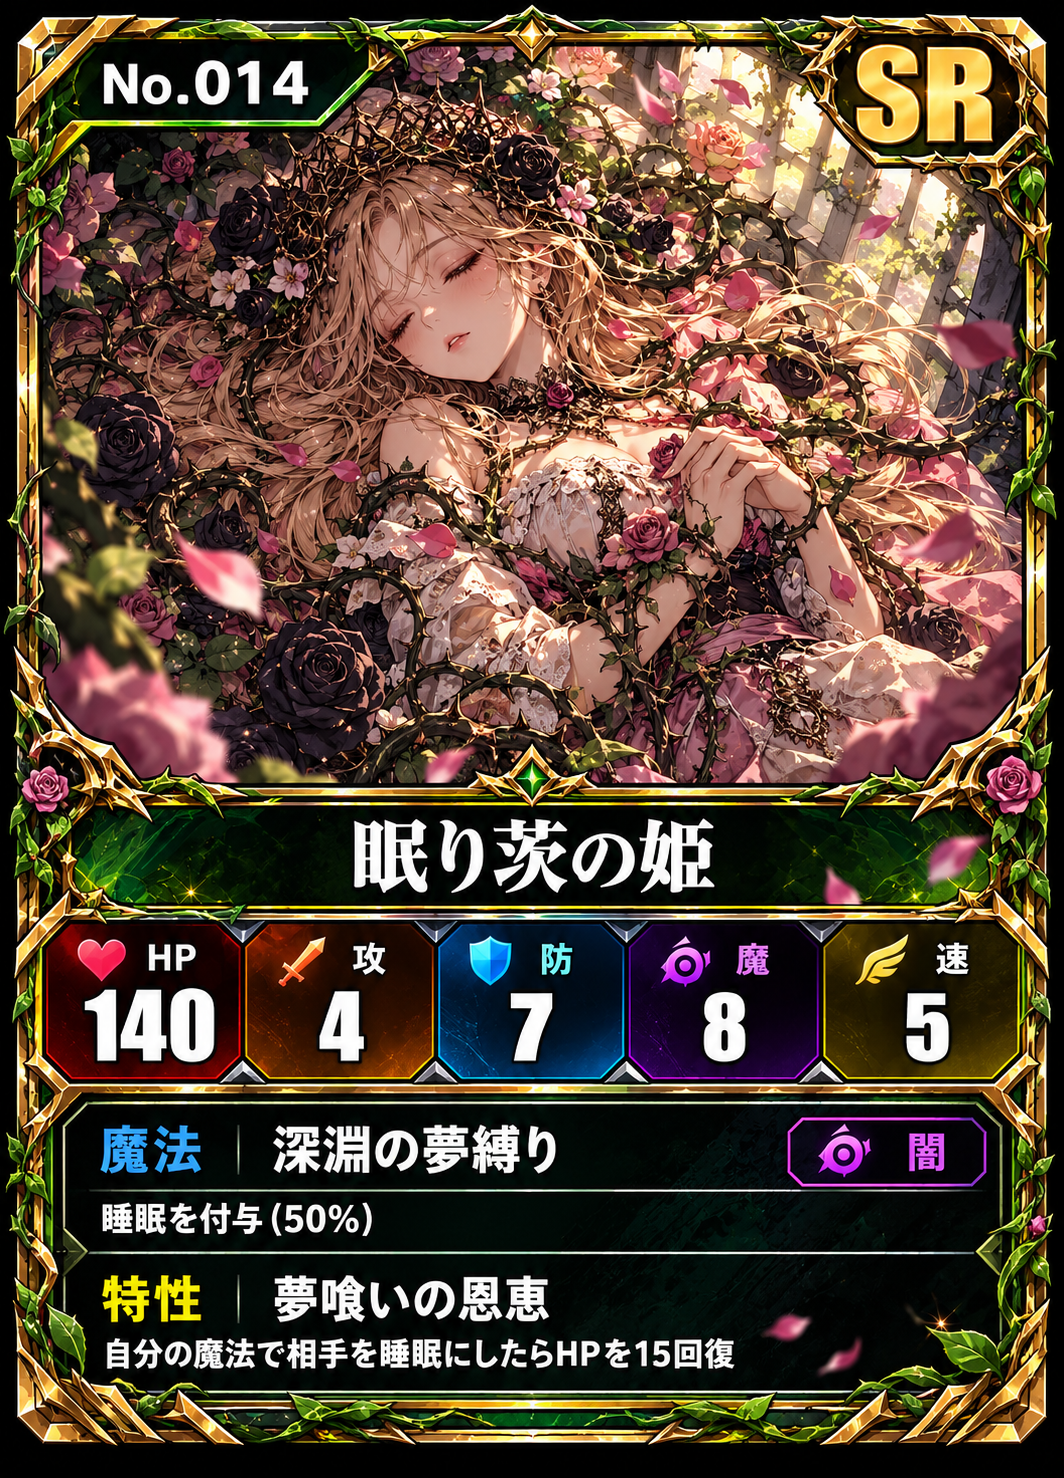
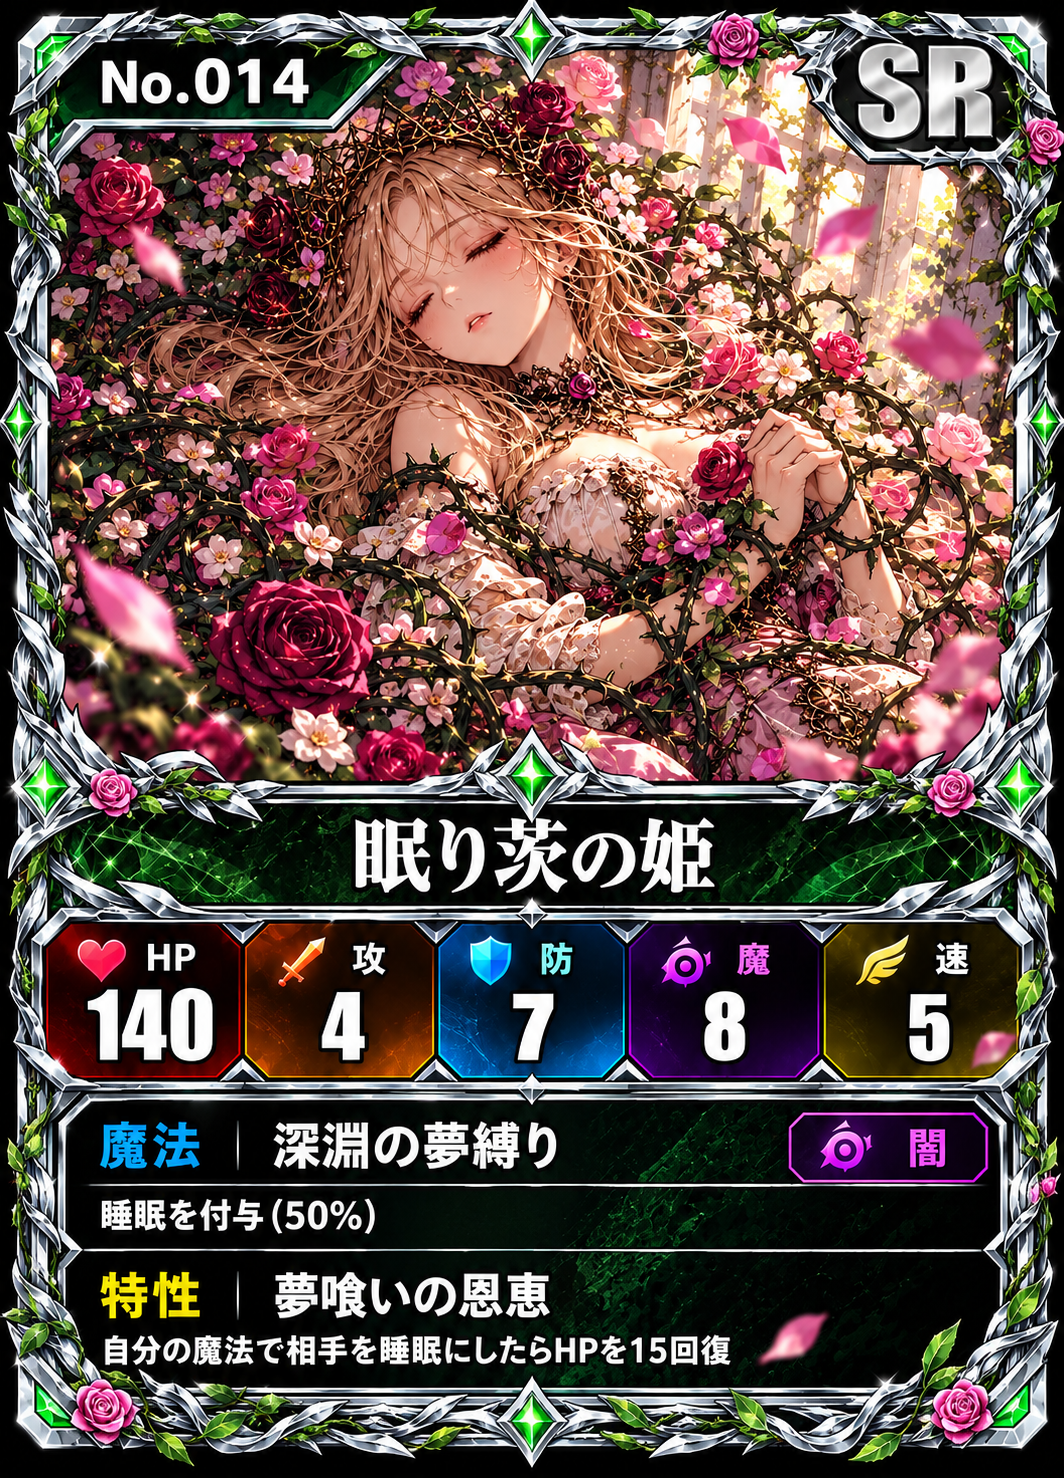
MYTHCLASH: No.014 眠り茨の姫 を銀のわくの絵に差しかえ(前の絵は unused/)。SRは全部銀のわくに
Claude-Session: https://claude.ai/code/session_01MXithgTc5umkveoyZShZHQ

diff --git a/docs/MYTHCLASH.md b/docs/MYTHCLASH.md
@@ -187,7 +187,7 @@
 - 絵がかぶらないように、カードごとに「写す広さ・カメラの高さ・動き・光の方向・主な色」の2〜3個を変えた構図の文を Claude が作る（企画者 2026-10-28）。
   - No.008 菓子牢の魔女：表どおり（(50%) も描いてあった）。
 - 届いたカード：No.001〜029・101。
-- 2026-10-29：これから描くSRのカードは、わくを銀色にする（企画者）。前に届いたSR（No.014）は金のわくのまま。No.001・016・021・028 は銀のわくの絵に差しかえた
+- 2026-10-29：これから描くSRのカードは、わくを銀色にする（企画者）。前に届いたSR（No.001・014・016・021・028）も銀のわくの絵に差しかえた（金のわくの絵は unused/）
 
 ### 名前を BLOOD TOWER に（2026-10-27）【確定】
 - 企画者「ストーリーじゃなくて BLOOD TOWER にしよう」→ モードえらびのボタンを「🏰 BLOOD TOWER」に。
